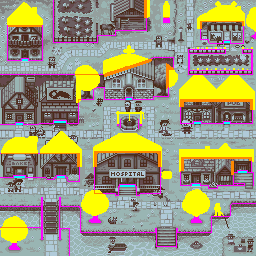
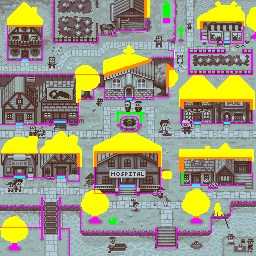
Fix Y-sort pop-through and sub-pixel collision overlap
Y-sorted regions used the bottom of the painted canopy as their sort
key, not the object's actual base, so the player would pop in front
of a tree the moment their feet crossed the last canopy row while
still visually overlapping it. Extend sortY down through any
connected solid (magenta/orange) base beneath the region.

Also fix isCollision testing only the floored top-left pixel of the
sub-pixel-speed feet box instead of every pixel the box overlaps,
letting the player rest with feet partly inside a wall pixel.

diff --git a/canvas-navigator-927.html b/canvas-navigator-927.html
@@ -879,6 +879,9 @@
                             const region = floodFillRegion(x, y, mapData, displayData, processed, mapCanvas.width, mapCanvas.height, isSorted);
 
                             if (region.pixels.length > 0) {
+                                if (isSorted) {
+                                    extendSortYThroughBase(region, mapData, mapCanvas.width, mapCanvas.height);
+                                }
                                 overlayRegions.push(region);
                                 if (isYellow) yellowPixelCount += region.pixels.length;
                                 if (isOrange) orangePixelCount += region.pixels.length;
@@ -895,6 +898,44 @@
             }
         }
         
+        // A Y-sorted region only covers the walk-behind art (e.g. a tree canopy). The
+        // solid base under it (trunk) is painted magenta/orange, so it is NOT part of
+        // the region and the region's maxY lands at the canopy bottom. The player's feet
+        // can pass that row while their body still overlaps the canopy, which makes them
+        // pop in front. Walk down from each column's lowest region pixel through the
+        // connected solid base so sortY describes the object's real footing.
+        function extendSortYThroughBase(region, mapData, width, height) {
+            const bottomByColumn = new Map();
+            for (const p of region.pixels) {
+                const current = bottomByColumn.get(p.x);
+                if (current === undefined || p.y > current) {
+                    bottomByColumn.set(p.x, p.y);
+                }
+            }
+
+            let sortY = region.maxY;
+
+            for (const [x, bottomY] of bottomByColumn) {
+                let y = bottomY + 1;
+                while (y < height) {
+                    const idx = (y * width + x) * 4;
+                    const r = mapData.data[idx];
+                    const g = mapData.data[idx + 1];
+                    const b = mapData.data[idx + 2];
+
+                    const isMagenta = (r >= 250 && g <= 5 && b >= 250);
+                    const isOrange = (r >= 250 && g >= 130 && g <= 140 && b <= 5);
+                    if (!isMagenta && !isOrange) break;
+
+                    y++;
+                }
+                sortY = Math.max(sortY, y - 1);
+            }
+
+            // Only sortY moves - minY/maxY still bound the drawn canvas
+            region.sortY = sortY;
+        }
+
         // Flood fill to find a connected region of same-class overlay pixels
         // (yellow/orange = always-above; green = true Y-sorted). isSortedClass
         // decides which class this region belongs to, so a green region never
@@ -1292,14 +1333,23 @@
         }
 
         function isCollision(x, y) {
-            // x, y represent bottom-left of sprite
-            // Calculate bottom-center collision box position
-            const collisionX = Math.floor(x + (player.width - player.collisionWidth) / 2);
-            const collisionY = Math.floor(y - player.collisionHeight);  // Bottom row
-            
-            // Check the 2x1 collision box at bottom-center of sprite
-            for (let px = collisionX; px < collisionX + player.collisionWidth; px++) {
-                for (let py = collisionY; py < collisionY + player.collisionHeight; py++) {
+            // x, y represent bottom-left of sprite, and are fractional (speed is sub-pixel)
+            // Calculate bottom-center collision box as a float rect
+            const boxLeft = x + (player.width - player.collisionWidth) / 2;
+            const boxTop = y - player.collisionHeight;  // Bottom row
+            const boxRight = boxLeft + player.collisionWidth;
+            const boxBottom = boxTop + player.collisionHeight;
+
+            // Test every pixel the box TOUCHES, not just the one its floored corner
+            // lands in. Flooring alone lets the box sit half-way onto a solid pixel,
+            // which reads as standing on a wall and breaks Y-sorting against it.
+            const minPx = Math.floor(boxLeft);
+            const maxPx = Math.ceil(boxRight) - 1;
+            const minPy = Math.floor(boxTop);
+            const maxPy = Math.ceil(boxBottom) - 1;
+
+            for (let px = minPx; px <= maxPx; px++) {
+                for (let py = minPy; py <= maxPy; py++) {
                     const color = getPixelColor(px, py);
                     // Check both magenta (collision only) and orange (collision + overlay)
                     if (isMarkerColor(color, COLLISION_COLOR) || isMarkerColor(color, SOLID_OVERLAY_COLOR)) {

diff --git a/canvas-navigator.html b/canvas-navigator.html
@@ -859,6 +859,9 @@
                             const region = floodFillRegion(x, y, mapData, displayData, processed, mapCanvas.width, mapCanvas.height, isSorted);
 
                             if (region.pixels.length > 0) {
+                                if (isSorted) {
+                                    extendSortYThroughBase(region, mapData, mapCanvas.width, mapCanvas.height);
+                                }
                                 overlayRegions.push(region);
                                 if (isYellow) yellowPixelCount += region.pixels.length;
                                 if (isOrange) orangePixelCount += region.pixels.length;
@@ -875,6 +878,44 @@
             }
         }
         
+        // A Y-sorted region only covers the walk-behind art (e.g. a tree canopy). The
+        // solid base under it (trunk) is painted magenta/orange, so it is NOT part of
+        // the region and the region's maxY lands at the canopy bottom. The player's feet
+        // can pass that row while their body still overlaps the canopy, which makes them
+        // pop in front. Walk down from each column's lowest region pixel through the
+        // connected solid base so sortY describes the object's real footing.
+        function extendSortYThroughBase(region, mapData, width, height) {
+            const bottomByColumn = new Map();
+            for (const p of region.pixels) {
+                const current = bottomByColumn.get(p.x);
+                if (current === undefined || p.y > current) {
+                    bottomByColumn.set(p.x, p.y);
+                }
+            }
+
+            let sortY = region.maxY;
+
+            for (const [x, bottomY] of bottomByColumn) {
+                let y = bottomY + 1;
+                while (y < height) {
+                    const idx = (y * width + x) * 4;
+                    const r = mapData.data[idx];
+                    const g = mapData.data[idx + 1];
+                    const b = mapData.data[idx + 2];
+
+                    const isMagenta = (r >= 250 && g <= 5 && b >= 250);
+                    const isOrange = (r >= 250 && g >= 130 && g <= 140 && b <= 5);
+                    if (!isMagenta && !isOrange) break;
+
+                    y++;
+                }
+                sortY = Math.max(sortY, y - 1);
+            }
+
+            // Only sortY moves - minY/maxY still bound the drawn canvas
+            region.sortY = sortY;
+        }
+
         // Flood fill to find a connected region of same-class overlay pixels
         // (yellow/orange = always-above; green = true Y-sorted). isSortedClass
         // decides which class this region belongs to, so a green region never
@@ -1289,14 +1330,23 @@
         }
 
         function isCollision(x, y) {
-            // x, y represent bottom-left of sprite
-            // Calculate bottom-center collision box position
-            const collisionX = Math.floor(x + (player.width - player.collisionWidth) / 2);
-            const collisionY = Math.floor(y - player.collisionHeight);  // Bottom row
-            
-            // Check the 2x1 collision box at bottom-center of sprite
-            for (let px = collisionX; px < collisionX + player.collisionWidth; px++) {
-                for (let py = collisionY; py < collisionY + player.collisionHeight; py++) {
+            // x, y represent bottom-left of sprite, and are fractional (speed is sub-pixel)
+            // Calculate bottom-center collision box as a float rect
+            const boxLeft = x + (player.width - player.collisionWidth) / 2;
+            const boxTop = y - player.collisionHeight;  // Bottom row
+            const boxRight = boxLeft + player.collisionWidth;
+            const boxBottom = boxTop + player.collisionHeight;
+
+            // Test every pixel the box TOUCHES, not just the one its floored corner
+            // lands in. Flooring alone lets the box sit half-way onto a solid pixel,
+            // which reads as standing on a wall and breaks Y-sorting against it.
+            const minPx = Math.floor(boxLeft);
+            const maxPx = Math.ceil(boxRight) - 1;
+            const minPy = Math.floor(boxTop);
+            const maxPy = Math.ceil(boxBottom) - 1;
+
+            for (let px = minPx; px <= maxPx; px++) {
+                for (let py = minPy; py <= maxPy; py++) {
                     const color = getPixelColor(px, py);
                     // Check both magenta (collision only) and orange (collision + overlay)
                     if (isMarkerColor(color, COLLISION_COLOR) || isMarkerColor(color, SOLID_OVERLAY_COLOR)) {
